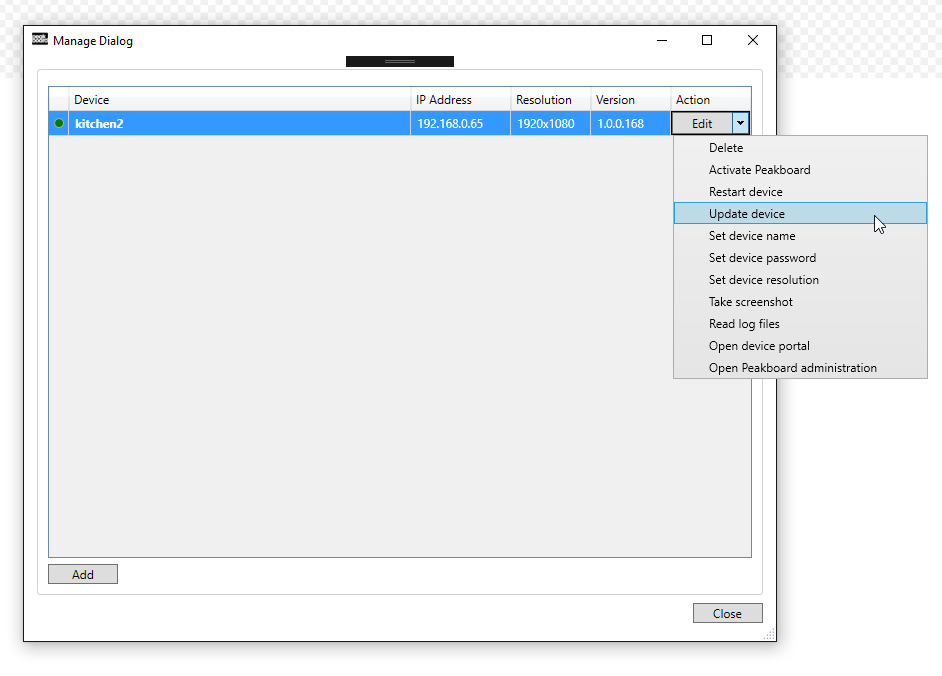
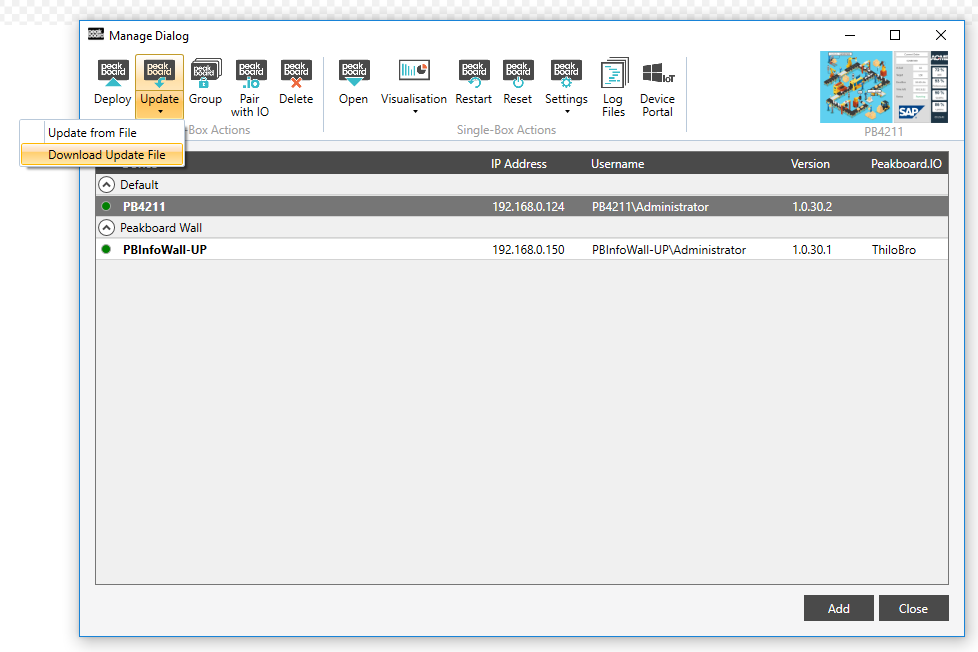
updated

Changed region(s): [[0.0, 0.0, 1.0, 1.0], [0.8928, 0.3681, 0.9544, 0.3988]]

diff --git a/_administration/06-de-Aktualisieren.md b/_administration/06-de-Aktualisieren.md
@@ -11,8 +11,12 @@ Um die Peakboard-Box zu aktualisieren, klicken Sie im Menüband des oberen Peakb
 
 Befindet sich die Peakboard-Box, die Sie updaten möchten, nicht in der Liste, folgen Sie bitte diesem [Link](/administration/07-de-hinzufuegen.html).
 
-Öffnen Sie das DropDown-Menü in der Zeile, in der sich die zu updatende Peakboard-Box befindet. Klicken Sie hier auf Update device. Wenn ein neues Update vorhanden ist, werden Sie gefragt, ob Sie das Update durchführen möchten. Bestätigen Sie dies.
+Sie haben die Möglichkeit, ein Update für eine oder mehrere Peakboard-Boxen gleichzeitig anzustoßen. Hierzu selektieren sie einfach alle Boxen bei denen ein Update vorgenommen werden soll. Generell stehen Ihnen zwei Möglichkeiten für ein Update zur Verfügung.
 
 ![Manage Dialog Update Device](/assets/images/admin/update/aktualisieren1.png)
+
+Verfügen die zu aktualisierenden Peakboard-Boxen über eine aktive Internetverbindung, so kann das Update direkt ausgeführt werden.
+
+Befindet sich die Peakboard-Box dagegen in einem isolierten Netzwerk, so kann das Update mittels Update-Datei erfolgen. Diese Datei können Sie [hier](https://peakboard.com/download/runtime/Peakboard.Runtime_Update.pbux) herunterladen und anschließend über einen USB-Stick oder ähnlichem der Peakboard-Box zur Verfügung stellen.
 
 Nach einem kurzen Moment ist Ihre Peakboard-Box upgedated.
